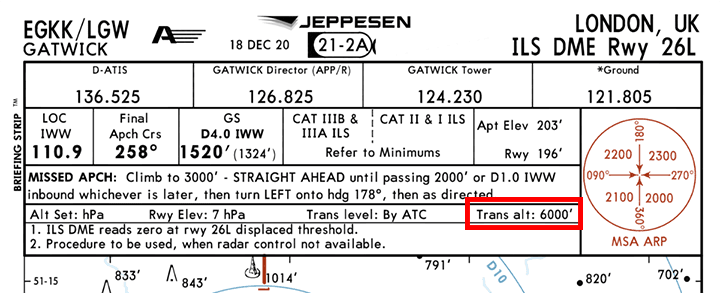
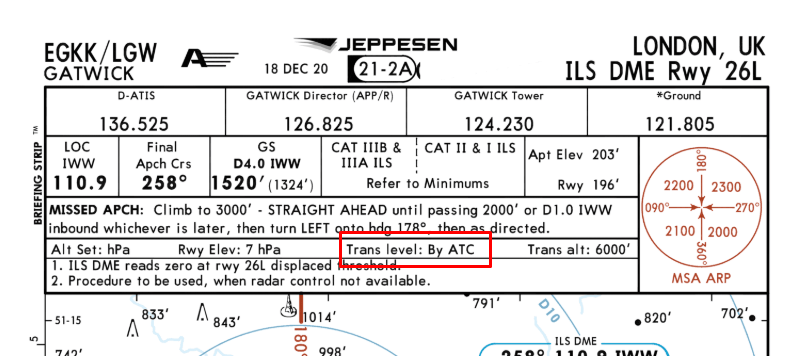
docs(beg-guide): correct usage of trans lvl in descent.md

diff --git a/docs/pilots-corner/beginner-guide/descent.md b/docs/pilots-corner/beginner-guide/descent.md
@@ -199,7 +199,7 @@ From the chart we get `TRANS ALT` and `BARO` (=MDA) or `RADIO` (=DH).
 - CAT II/III ILS use DH which is put in the `RADIO` field.
 - `BARO` is based on barometric altitude whereas `RADIO` is based on radio altitude (distance to ground).
 
-![Transition alt on chart](../assets/beginner-guide/descent/EGKK-APPR-char-1.png "Transistion alt on chart"){loading=lazy}<br/>
+![Transition level on chart](../assets/beginner-guide/descent/EGKK-APPR-char-1.png "Transition level on chart"){loading=lazy}<br/>
 ![ILS information on chart](../assets/beginner-guide/descent/EGKK-APPR-chart-2.png "ILS information on chart"){loading=lazy}<br/>
 <sub>*Copyright © 2021 Navigraph / Jeppesen*
 
